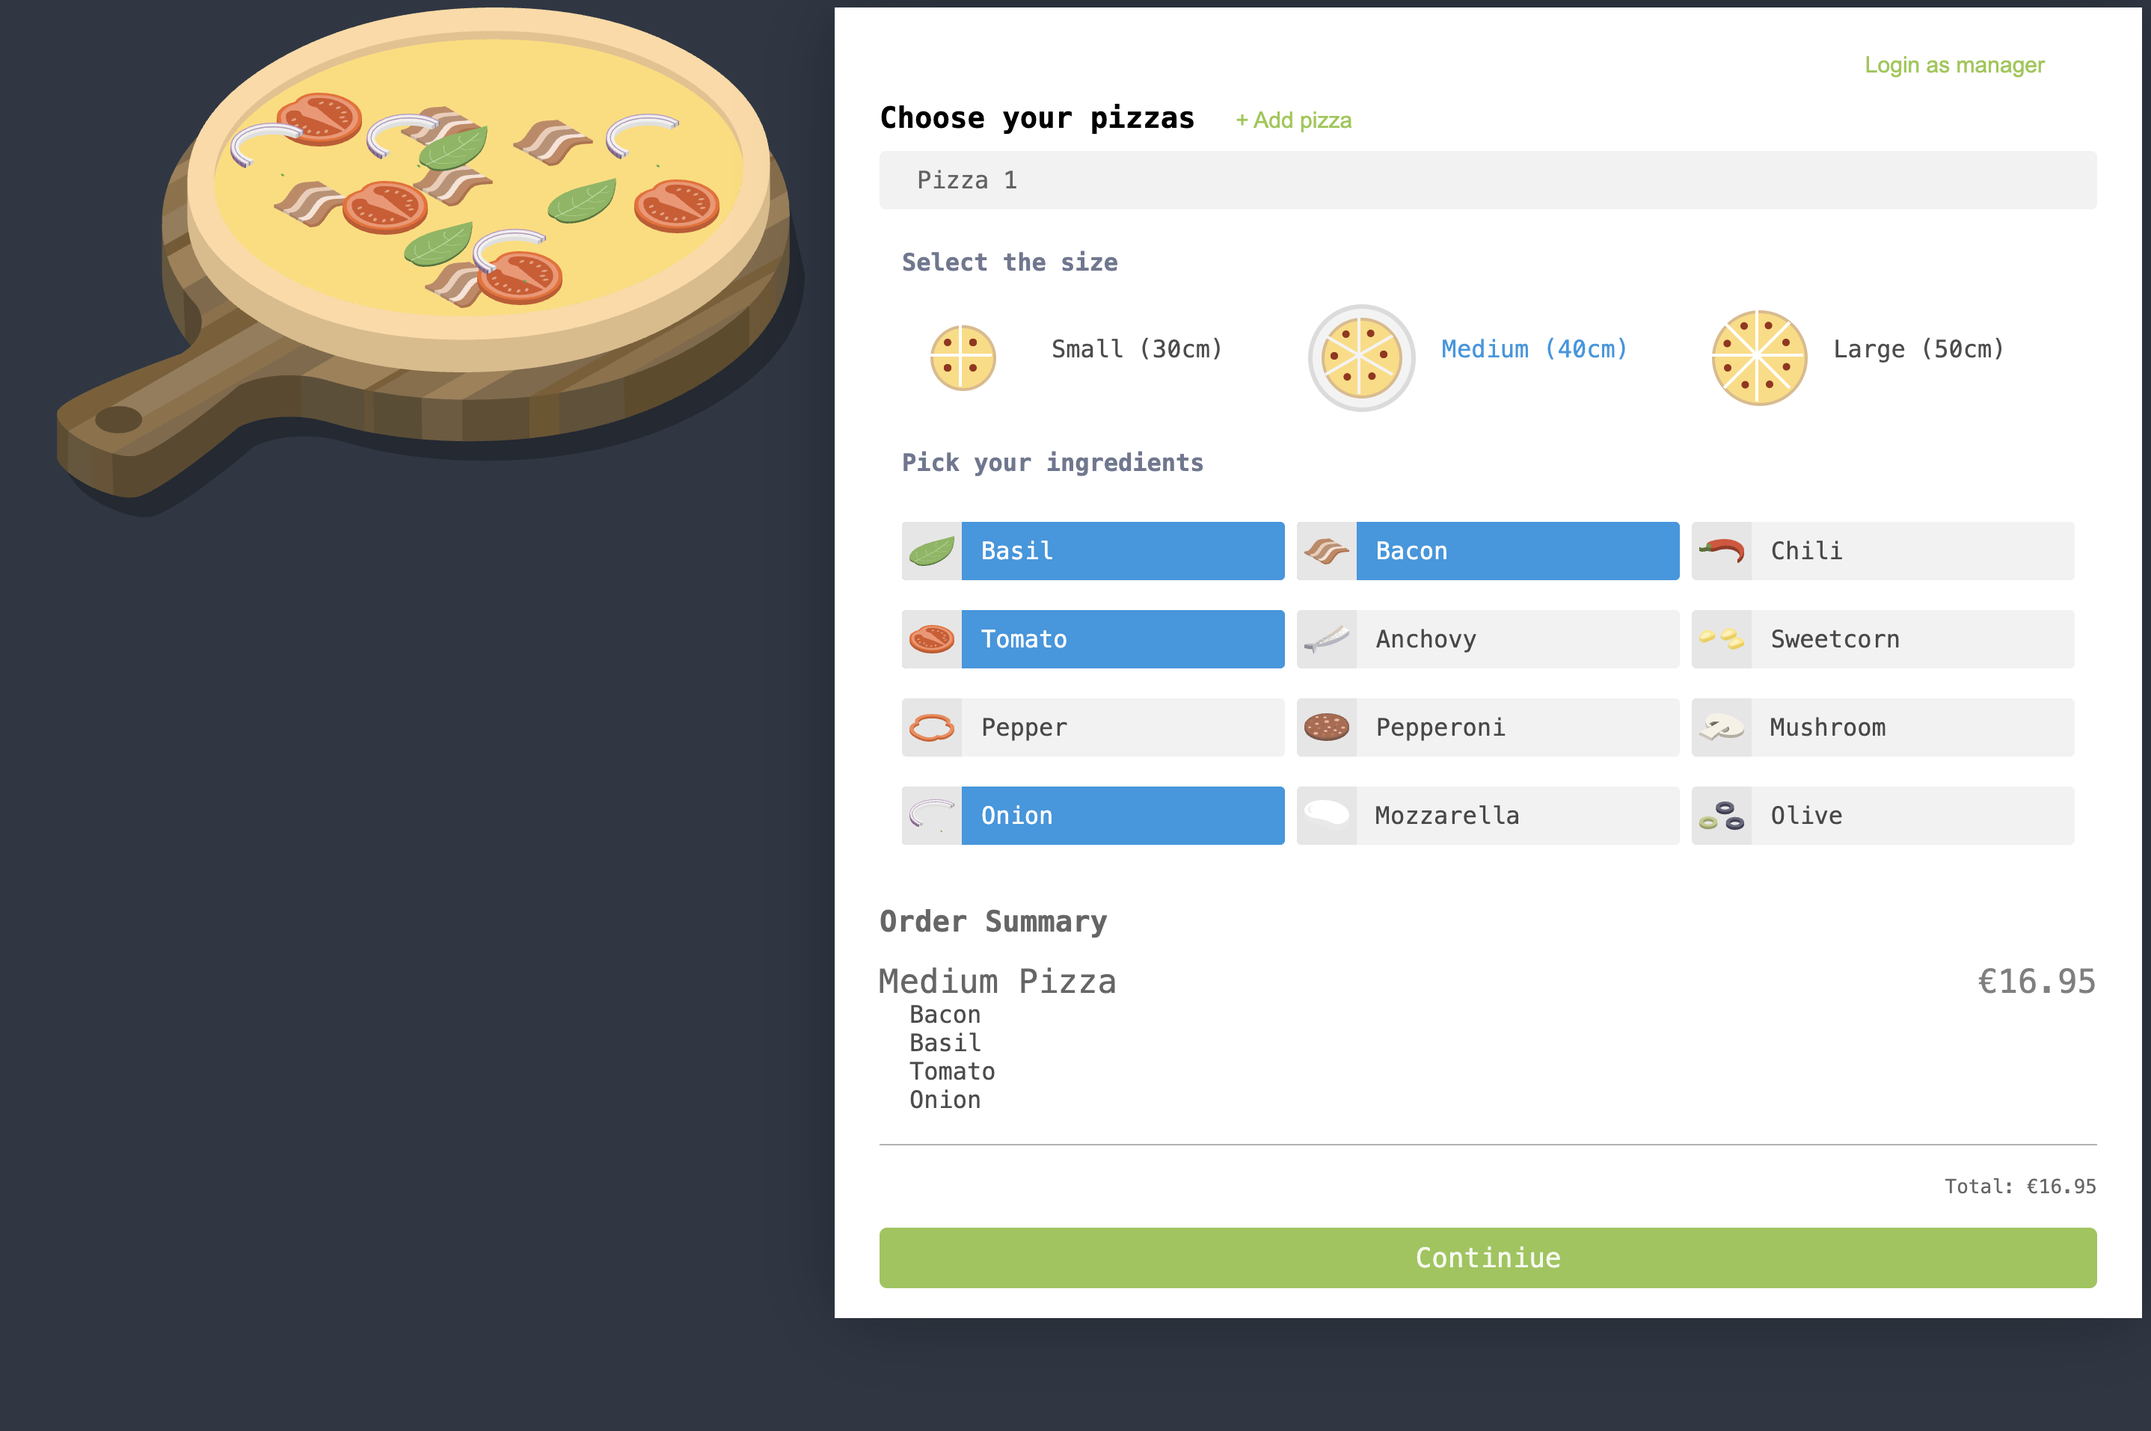
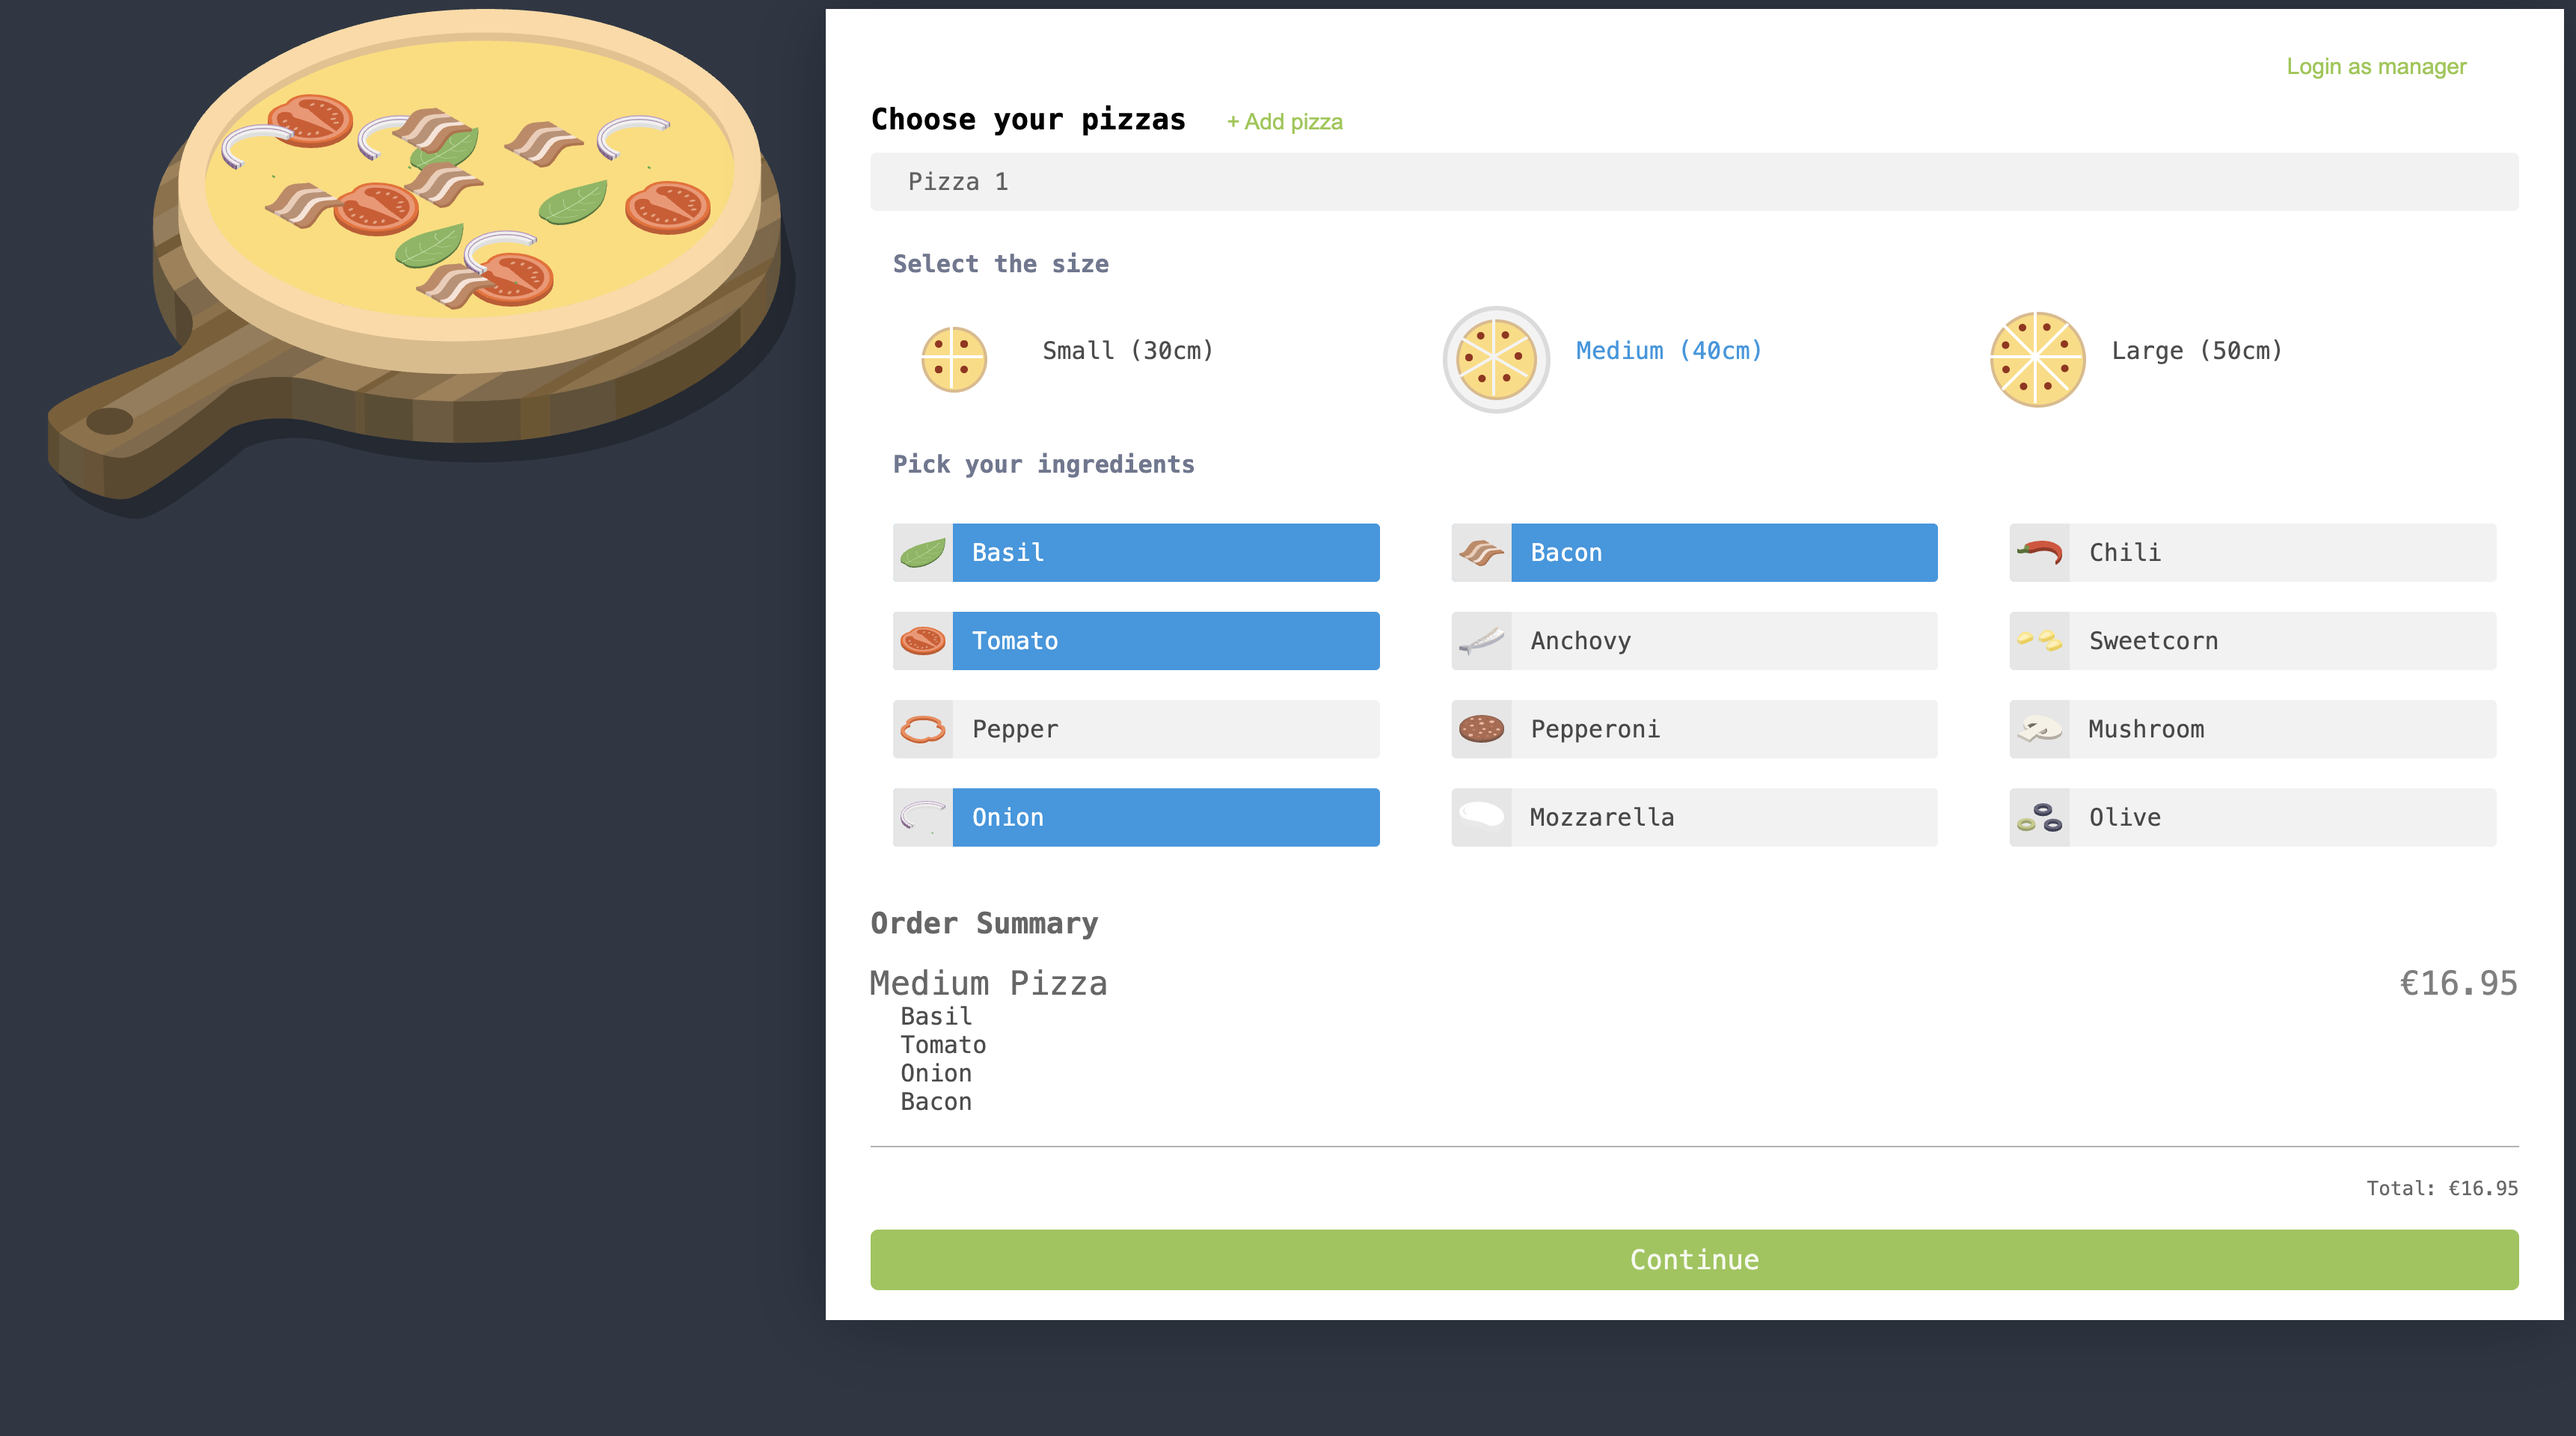
Update the README for the current state of the app

diff --git a/README.md b/README.md
@@ -6,10 +6,11 @@ Build a pizza, order it, then watch the courier drive to your door on a live map
 
 ![The pizza builder, mid-order](docs/screenshots/builder.png)
 
+[![CI](https://github.com/oplichta/pizza-builder/actions/workflows/ci.yml/badge.svg)](https://github.com/oplichta/pizza-builder/actions/workflows/ci.yml)
 ![Angular](https://img.shields.io/badge/Angular-21-dd0031)
 ![NgRx](https://img.shields.io/badge/NgRx-21-purple)
 ![TypeScript](https://img.shields.io/badge/TypeScript-strict-3178c6)
-![Tests](https://img.shields.io/badge/Jest-30%20passing-success)
+![Tests](https://img.shields.io/badge/Jest-65%20passing-success)
 
 ---
 
@@ -82,7 +83,7 @@ It also needs a workaround: Angular's esbuild builder can't bundle Mapbox's blob
 
 ## Tech stack
 
-**Angular 21** (standalone components, `@if` / `@for` control flow, signals) · **NgRx 21** (store, effects, devtools) · **RxJS 7** · **Firebase / Firestore** · **Mapbox GL JS** · **Jest 30** with `jest-preset-angular` · **SCSS** · **TypeScript** in `strict` mode with `strictTemplates`
+**Angular 21** (standalone components, `@if` / `@for` control flow, signals) · **NgRx 21** (store, effects, devtools) · **RxJS 7** · **Firebase / Firestore** · **Mapbox GL JS** · **Jest 30** with `jest-preset-angular` · **ESLint** via `angular-eslint` · **SCSS** · **TypeScript** in `strict` mode with `strictTemplates`
 
 ---
 
@@ -100,7 +101,7 @@ The Mapbox token is handled differently, and deliberately so. `enviroment.ts` sh
 
 ## Getting started
 
-Requires Node 20+.
+Requires Node 22 or newer. CI runs on Node 24.
 
 ```bash
 npm install
@@ -118,11 +119,12 @@ That's it — the committed Firebase config backs the toppings list, so the buil
 ## Testing
 
 ```bash
-npm test               # 30 tests across 16 suites
+npm test               # 65 tests across 21 suites
 npm run test:coverage
+npm run lint
 ```
 
-Coverage focuses on component logic and store integration — dispatching the right actions, deriving the right view state, and the `ControlValueAccessor` contract. Reducers, selectors and `promo.effects` are not covered yet; they're pure functions and next on the list.
+The store is the best-covered part of the app: reducers, selectors and `promo.effects` sit at 94% statement coverage, and the route guard at 100%. Component specs drive their components through a mocked store and assert on rendered DOM and dispatched actions rather than on internal fields, so they survive refactors. Overall statement coverage is 79%; the gap is mostly `delivery.component`, whose Mapbox and animation code isn't worth testing without a real map.
 
 ---
 
@@ -146,5 +148,4 @@ Smaller gaps, listed honestly:
 
 - Payment is simulated — there is no real payment provider.
 - The order form has no city field, so geocoding is constrained to Poland.
-- No ESLint and no CI pipeline yet.
-- Accessibility needs work: several interactive elements are `div`s without keyboard support.
+- The delivery map needs a Mapbox token in `enviroment.ts` to work locally; every other screen runs without one.
